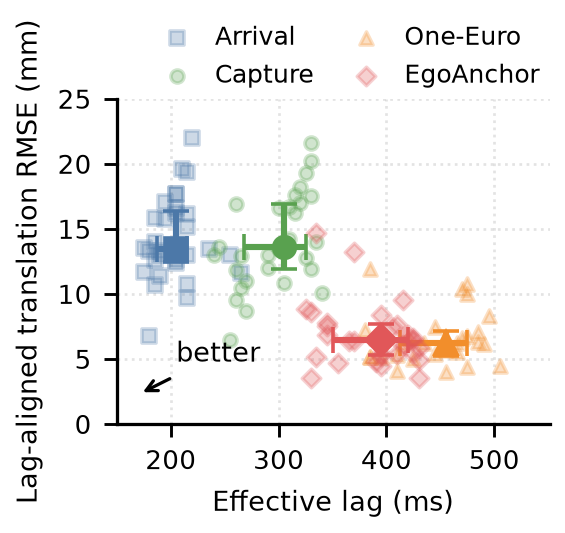
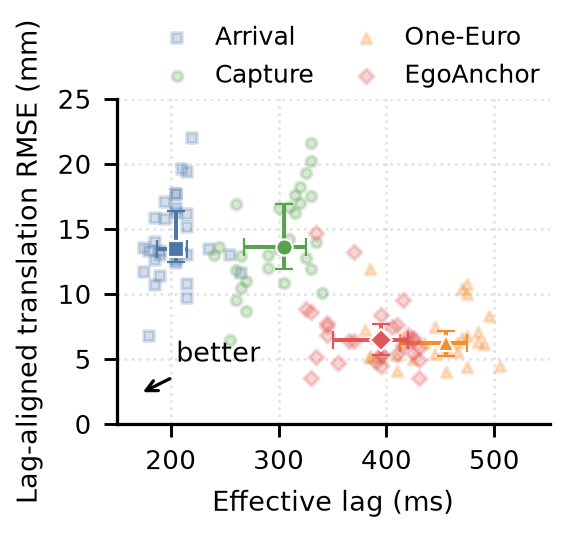
优化持续平移图的视觉层级

diff --git a/EgoAnchor_Python/src/egoanchor/eval/paper_analysis/figures.py b/EgoAnchor_Python/src/egoanchor/eval/paper_analysis/figures.py
@@ -223,6 +223,8 @@ def build_translation_panel(results: PaperResults) -> Any:
             marker=_MARKERS[index],
             label=_SHORT_LABELS[method],
             display_limit=_EXP1_DYNAMIC_Y_DISPLAY_LIMIT,
+            size=8.0,
+            alpha=0.24,
         )
         median_x, median_y = np.median(points, axis=0)
         q1_x, q3_x = np.quantile(points[:, 0], (0.25, 0.75))
@@ -233,11 +235,13 @@ def build_translation_panel(results: PaperResults) -> Any:
             xerr=[[median_x - q1_x], [q3_x - median_x]],
             yerr=[[median_y - q1_y], [q3_y - median_y]],
             fmt=_MARKERS[index],
-            markersize=6,
-            capsize=3.5,
-            linewidth=1.7,
+            markersize=4.5,
+            capsize=2.5,
+            linewidth=1.1,
             color=color,
             alpha=1.0,
+            markeredgecolor="white",
+            markeredgewidth=0.6,
         )
     axis.set_xlabel("Effective lag (ms)")
     axis.set_ylabel("Lag-aligned translation RMSE (mm)")

diff --git a/AGENTS.md b/AGENTS.md
@@ -145,7 +145,7 @@ schema-v2 task directory
 - 统计单位固定为 event/segment，不是 frame；先在 session/trial/event/variant 内计算，再做同 event/segment 配对和 session 汇总。
 - 每个场景单独报告，禁止跨场景混池计算全局总分或总排名。
 - 实验一发布一行三个 LaTeX 子图，实验二发布一行四个 LaTeX 子图；图内不重复小标题，图 2(b) 不连接跨方法折线，遮挡只投影 `occlusion_started` episode，图内最小字号固定为 7 pt。
-- 实验一图二三个面板均显示一致的四方法图例；图 3(c) 只显示 event median 与 IQR，横轴为按 VCD 分数从高到低保留候选的比例，纵轴按有效风险范围收紧；图 3(d) 使用 `Smoothed KF`、`Linear/SLERP`、`Hermite` 的紧凑右上图例。动态 lag--residual 面板仅绘制冻结纵轴上限内的点，不使用顶端替代三角；完整异常值仍保留在指标和表格中。
+- 实验一图二三个面板均显示一致的四方法图例；图 2(b) 的原始点、IQR 误差条与实心中位数保持由轻到重的视觉层级；图 3(c) 只显示 event median 与 IQR，横轴为按 VCD 分数从高到低保留候选的比例，纵轴按有效风险范围收紧；图 3(d) 使用 `Smoothed KF`、`Linear/SLERP`、`Hermite` 的紧凑右上图例。动态 lag--residual 面板仅绘制冻结纵轴上限内的点，不使用顶端替代三角；完整异常值仍保留在指标和表格中。
 - `egoanchor.eval.contracts` 的 workbook 契约继续作为 Stage 1 Excel 的唯一结构来源，完整保留对齐原始位姿、时间、reference、render 和事件字段；论文参数唯一入口是 `egoanchor/eval/config/paper.toml`，正式 CLI 不提供覆盖参数，分析 provenance 必须记录该文件的 SHA-256；每个参数同行保留中文注释。
 - Stage 1 workbook writer 先执行全量硬 QC，再在目标目录写临时 XLSX；写出后独立回读检查分片、表头、行数、类型、主外键、来源集合摘要和超长值，并在替换前复算输入来源哈希，全部通过才原子替换正式文件。单 sheet 超限时使用 `_001`、`_002` 分片；未知 JSONL 字段进入 `row_kv`，超长值进入 `large_values`，不得截断或静默丢弃。内部大值 marker 必须精确绑定来源分片；经过转义的同形原始文本仍按字面量回读。每个物理 sheet 冻结首行，并按列语义写入稳定列宽。Windows 下删除临时文件和原子替换遇到短暂共享锁时有界重试，重试耗尽仍保留旧正式文件并返回文件系统错误。
 - `preprocess` 在写出前检查整批固定源文件、task 编号和输出边界，再对整批执行 QC；任一 task 的 QC 失败时不开始发布。正式工作簿使用 `task_N_complete.xlsx`，代码版本自动读取当前 Git commit，不提供人工覆盖入口。
